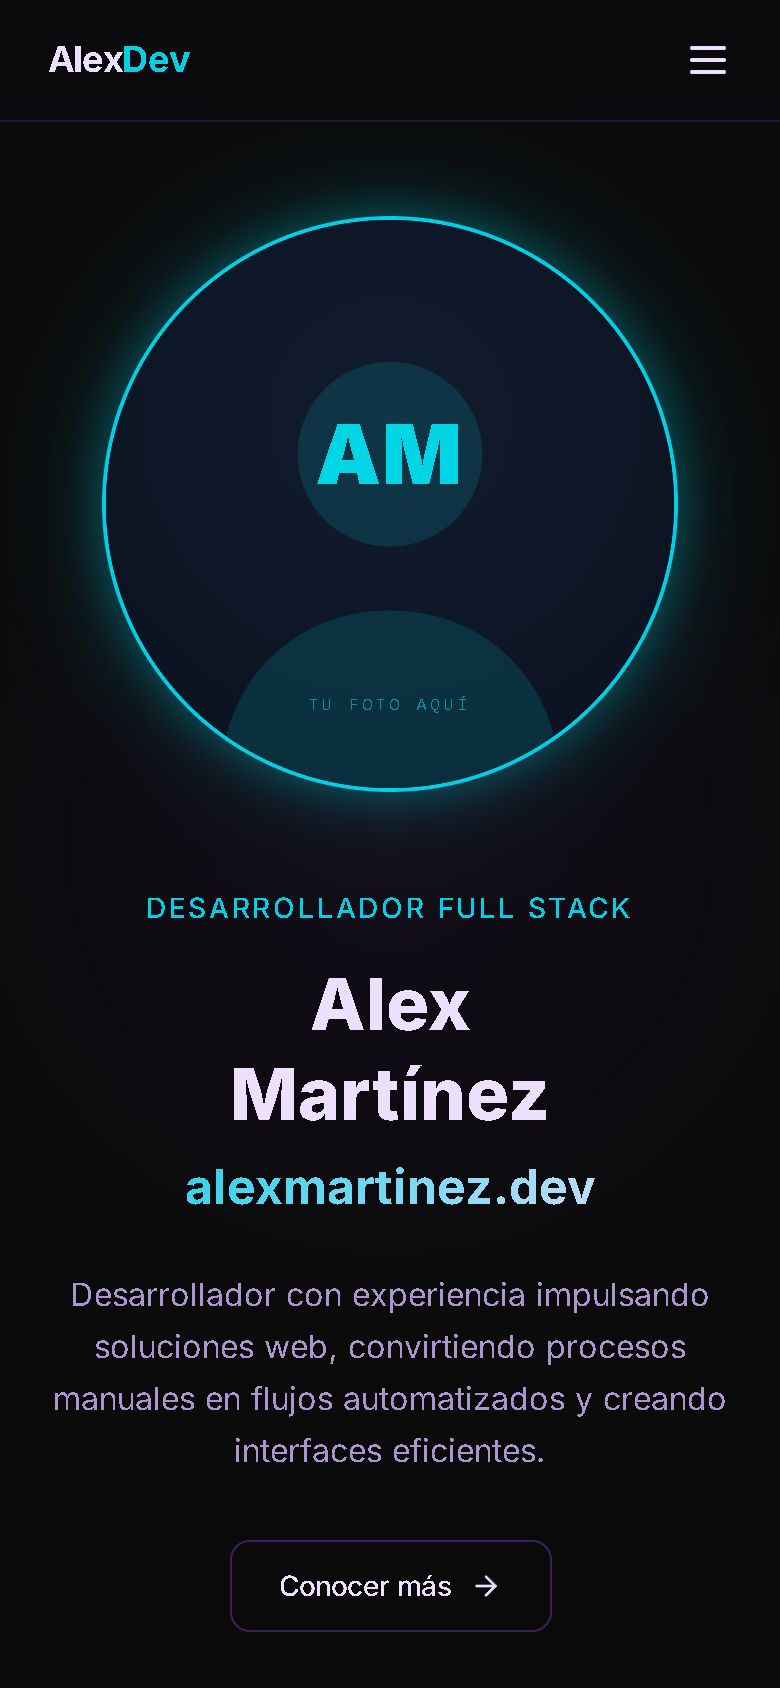
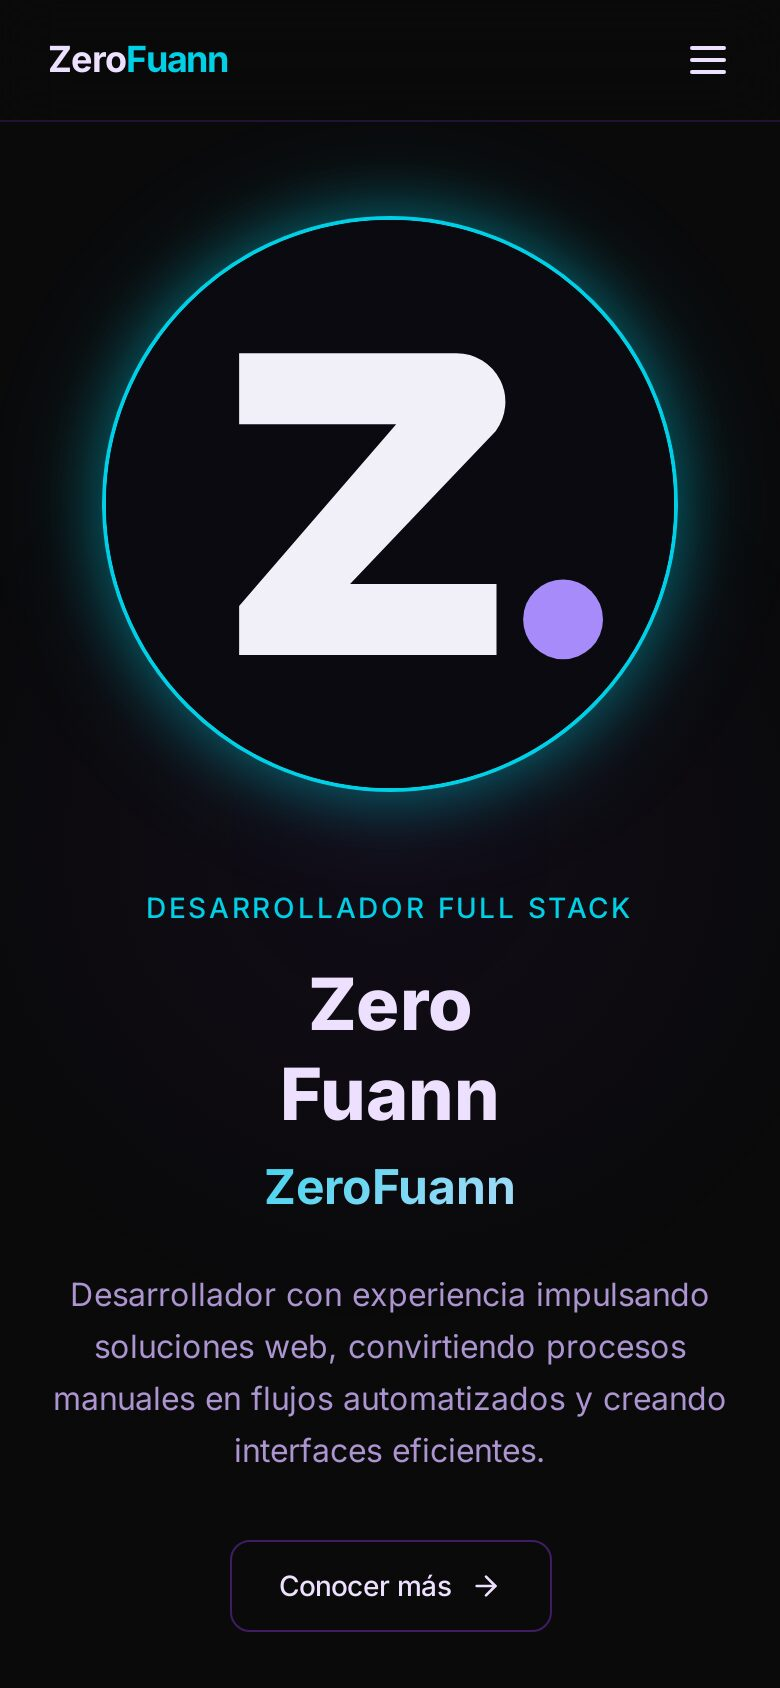
docs: README y capturas al día

diff --git a/README.md b/README.md
@@ -18,6 +18,8 @@
 
 </div>
 
+> La demo usa los datos de **ZeroFuann** (su autor) como ejemplo. Al usar la plantilla, cámbialos por los tuyos: nombre, foto, enlaces y proyectos.
+
 ## Qué incluye
 
 - Páginas de **inicio, sobre mí, habilidades, proyectos, espacio de trabajo** (con detalle de cada herramienta) y **contacto**.
